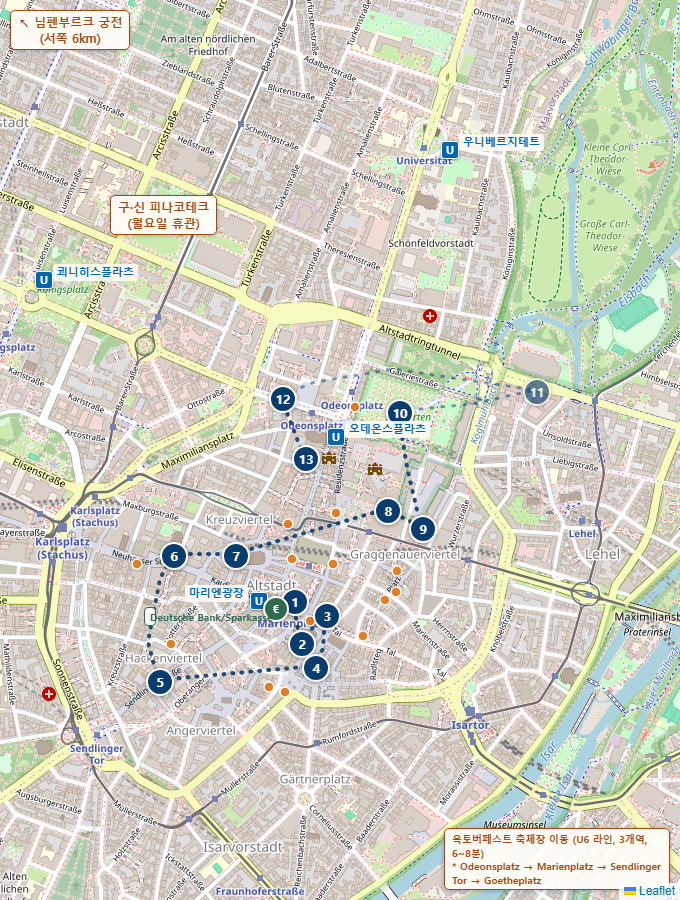
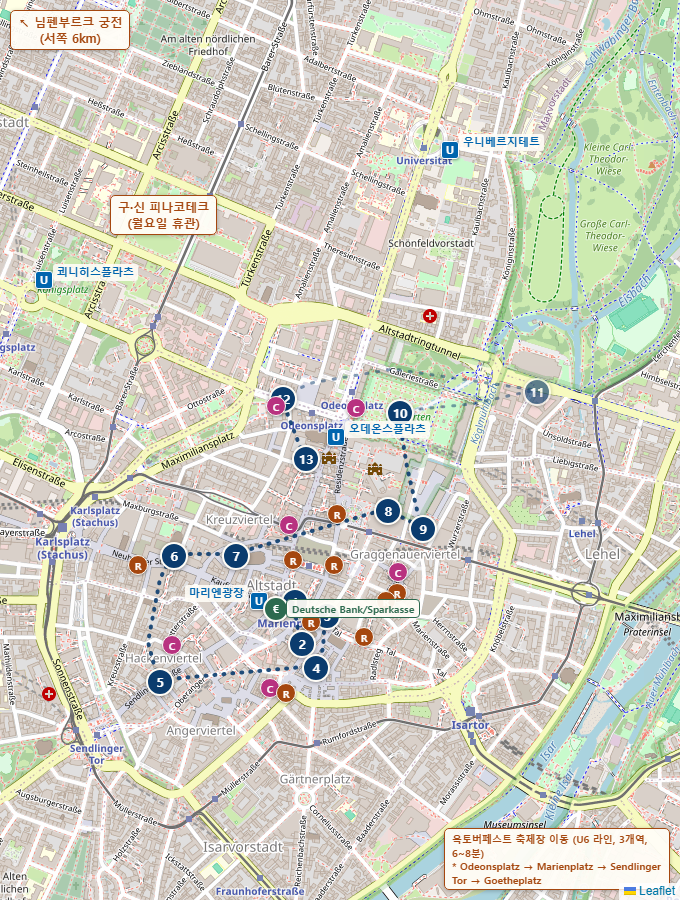
뮌헨·퓌센 구시가·라이헨슈타인 지도에 맛집(R)·디저트카페(C) 핀 추가, 남은 라벨 버그 전체 수정
이번 커밋으로 사이트 내 모든 도보 코스 스크린샷 지도의 iconSize:[0,0] 라벨 잘림 버그를
전부 화면 픽셀 좌표 방식으로 교체 완료. 주차장(P)·ATM(€)과 통일된 방식으로 맛집은 주황 R,
디저트&카페는 분홍 C 핀으로 표시.

diff --git a/germany-roadtrip-planner.html b/germany-roadtrip-planner.html
@@ -1934,7 +1934,7 @@ document.addEventListener('DOMContentLoaded', function(){
       <a class="walk-map-link" href="https://www.google.com/maps/dir/?api=1&travelmode=walking&origin=48.1370,11.5758&destination=48.1421,11.5778&waypoints=48.1367%2C11.5756%7C48.1374%2C11.5761%7C48.1355%2C11.5764%7C48.1351%2C11.5697%7C48.1387%2C11.5703%7C48.1387%2C11.5730%7C48.1414%2C11.5786%7C48.1411%2C11.5794%7C48.1428%2C11.5800%7C48.1434%2C11.5859%7C48.1422%2C11.5767" target="_blank" rel="noopener">📍 Google 지도로 도보 코스 보기(마리엔광장역 출발 → 펠트헤른할레 도착) · 총 약 4.4km · 도보 약 57분</a>
       <div class="route-snapshot">
         <div class="route-snapshot-media">
-          <img src="images/routes/muenchen.png?v=15" alt="뮌헨 도보 코스 지도 스냅샷 — Deutsche Bank/Sparkasse ATM 위치 포함" loading="lazy" width="680" height="900">
+          <img src="images/routes/muenchen.png?v=16" alt="뮌헨 도보 코스 지도 스냅샷 — Deutsche Bank/Sparkasse ATM·맛집(R)·디저트카페(C) 위치 포함" loading="lazy" width="680" height="900">
         </div>
         <ol class="route-steps">
         <li><span class="rs-name">마리엔 광장(신시청)</span></li>
@@ -2830,7 +2830,7 @@ document.addEventListener('DOMContentLoaded', function(){
       <a class="walk-map-link" href="https://www.google.com/maps/dir/?api=1&travelmode=walking&origin=47.568657,10.698583&destination=47.568657,10.698583&waypoints=47.5671,10.6981%7C47.5665,10.6993" target="_blank" rel="noopener">📍 Google 지도로 도보 코스 보기(숙소 출발·도착) · 총 약 630m · 도보 약 9분</a>
       <div class="route-snapshot">
         <div class="route-snapshot-media">
-          <img src="images/routes/fuessen_altstadt.png?v=2" alt="퓌센 구시가 도보 코스 지도 스냅샷 — Sparkasse ATM 위치 포함" loading="lazy" width="900" height="520">
+          <img src="images/routes/fuessen_altstadt.png?v=3" alt="퓌센 구시가 도보 코스 지도 스냅샷 — Sparkasse ATM·맛집(R)·디저트카페(C) 위치 포함" loading="lazy" width="900" height="520">
         </div>
         <ol class="route-steps">
         <li class="rs-p"><span class="rs-name">숙소(TREFF APARTMENTS)</span></li>
@@ -4183,7 +4183,7 @@ document.addEventListener('DOMContentLoaded', function(){
       <a class="walk-map-link" href="https://www.google.com/maps/dir/?api=1&travelmode=walking&origin=50.010997,7.846507&destination=50.0051645,7.8534559" target="_blank" rel="noopener">📍 Google 지도로 도보 코스 보기(숙소→성) · 총 약 950m · 도보 약 15분</a>
       <div class="route-snapshot">
         <div class="route-snapshot-media">
-          <img src="images/routes/reichenstein.png" alt="숙소↔라이헨슈타인 성 도보 코스 지도 스냅샷" loading="lazy" width="900" height="520">
+          <img src="images/routes/reichenstein.png?v=2" alt="숙소↔라이헨슈타인 성 도보 코스 지도 스냅샷 — 맛집(R) 위치 포함" loading="lazy" width="900" height="520">
         </div>
         <ol class="route-steps">
         <li class="rs-p"><span class="rs-name">숙소(ChristRose)</span></li>

diff --git a/index.html b/index.html
@@ -1934,7 +1934,7 @@ document.addEventListener('DOMContentLoaded', function(){
       <a class="walk-map-link" href="https://www.google.com/maps/dir/?api=1&travelmode=walking&origin=48.1370,11.5758&destination=48.1421,11.5778&waypoints=48.1367%2C11.5756%7C48.1374%2C11.5761%7C48.1355%2C11.5764%7C48.1351%2C11.5697%7C48.1387%2C11.5703%7C48.1387%2C11.5730%7C48.1414%2C11.5786%7C48.1411%2C11.5794%7C48.1428%2C11.5800%7C48.1434%2C11.5859%7C48.1422%2C11.5767" target="_blank" rel="noopener">📍 Google 지도로 도보 코스 보기(마리엔광장역 출발 → 펠트헤른할레 도착) · 총 약 4.4km · 도보 약 57분</a>
       <div class="route-snapshot">
         <div class="route-snapshot-media">
-          <img src="images/routes/muenchen.png?v=15" alt="뮌헨 도보 코스 지도 스냅샷 — Deutsche Bank/Sparkasse ATM 위치 포함" loading="lazy" width="680" height="900">
+          <img src="images/routes/muenchen.png?v=16" alt="뮌헨 도보 코스 지도 스냅샷 — Deutsche Bank/Sparkasse ATM·맛집(R)·디저트카페(C) 위치 포함" loading="lazy" width="680" height="900">
         </div>
         <ol class="route-steps">
         <li><span class="rs-name">마리엔 광장(신시청)</span></li>
@@ -2830,7 +2830,7 @@ document.addEventListener('DOMContentLoaded', function(){
       <a class="walk-map-link" href="https://www.google.com/maps/dir/?api=1&travelmode=walking&origin=47.568657,10.698583&destination=47.568657,10.698583&waypoints=47.5671,10.6981%7C47.5665,10.6993" target="_blank" rel="noopener">📍 Google 지도로 도보 코스 보기(숙소 출발·도착) · 총 약 630m · 도보 약 9분</a>
       <div class="route-snapshot">
         <div class="route-snapshot-media">
-          <img src="images/routes/fuessen_altstadt.png?v=2" alt="퓌센 구시가 도보 코스 지도 스냅샷 — Sparkasse ATM 위치 포함" loading="lazy" width="900" height="520">
+          <img src="images/routes/fuessen_altstadt.png?v=3" alt="퓌센 구시가 도보 코스 지도 스냅샷 — Sparkasse ATM·맛집(R)·디저트카페(C) 위치 포함" loading="lazy" width="900" height="520">
         </div>
         <ol class="route-steps">
         <li class="rs-p"><span class="rs-name">숙소(TREFF APARTMENTS)</span></li>
@@ -4183,7 +4183,7 @@ document.addEventListener('DOMContentLoaded', function(){
       <a class="walk-map-link" href="https://www.google.com/maps/dir/?api=1&travelmode=walking&origin=50.010997,7.846507&destination=50.0051645,7.8534559" target="_blank" rel="noopener">📍 Google 지도로 도보 코스 보기(숙소→성) · 총 약 950m · 도보 약 15분</a>
       <div class="route-snapshot">
         <div class="route-snapshot-media">
-          <img src="images/routes/reichenstein.png" alt="숙소↔라이헨슈타인 성 도보 코스 지도 스냅샷" loading="lazy" width="900" height="520">
+          <img src="images/routes/reichenstein.png?v=2" alt="숙소↔라이헨슈타인 성 도보 코스 지도 스냅샷 — 맛집(R) 위치 포함" loading="lazy" width="900" height="520">
         </div>
         <ol class="route-steps">
         <li class="rs-p"><span class="rs-name">숙소(ChristRose)</span></li>
